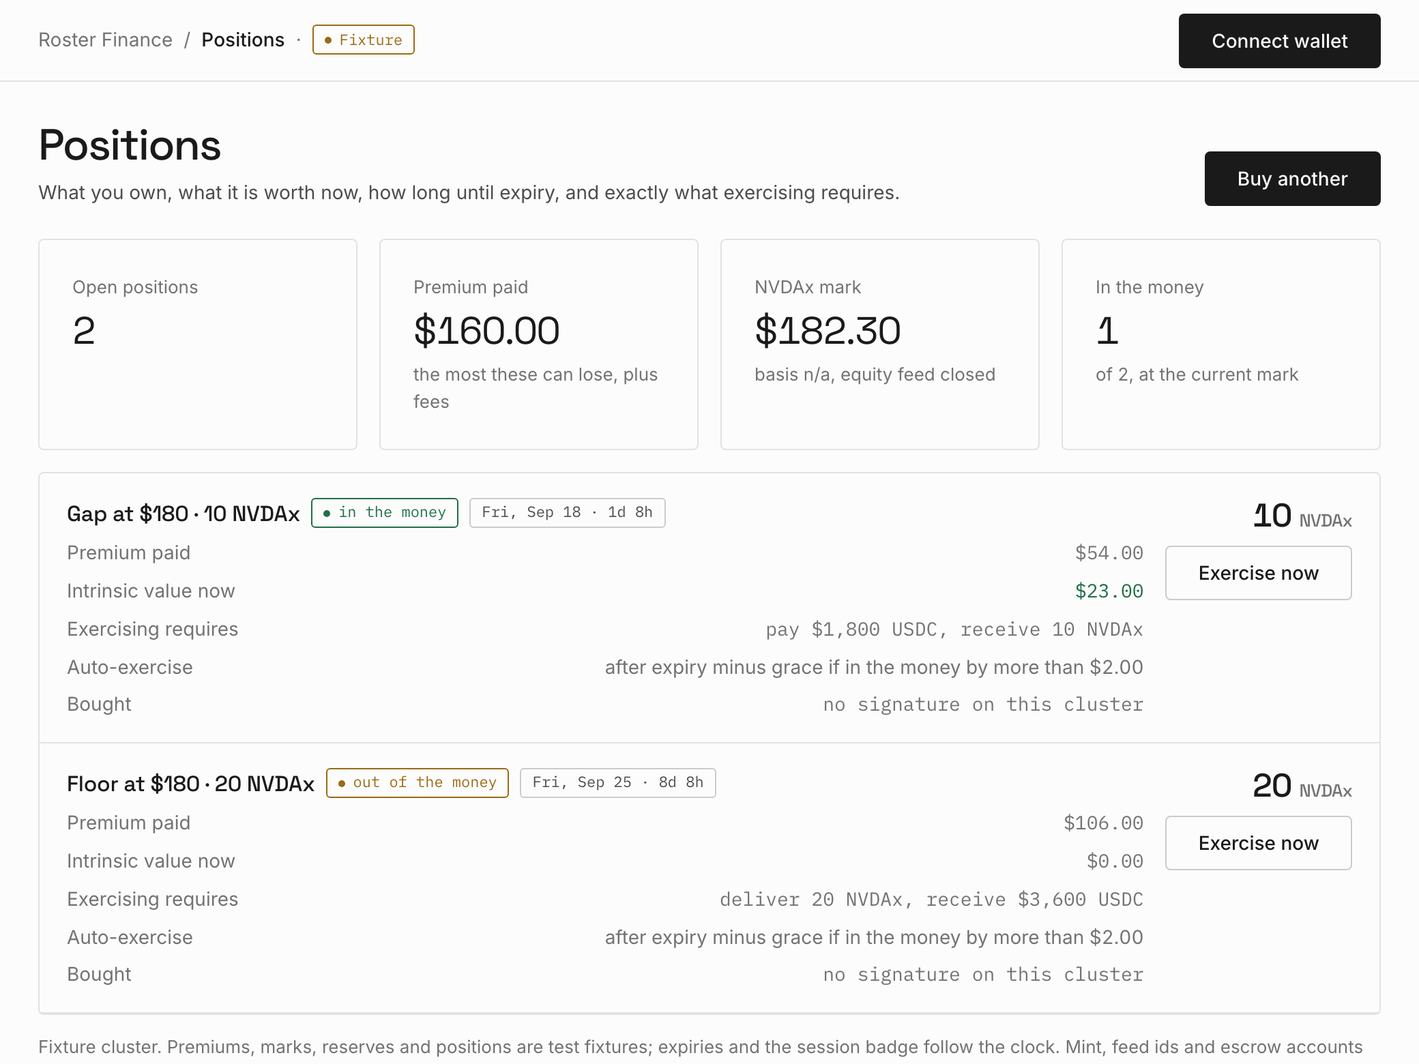
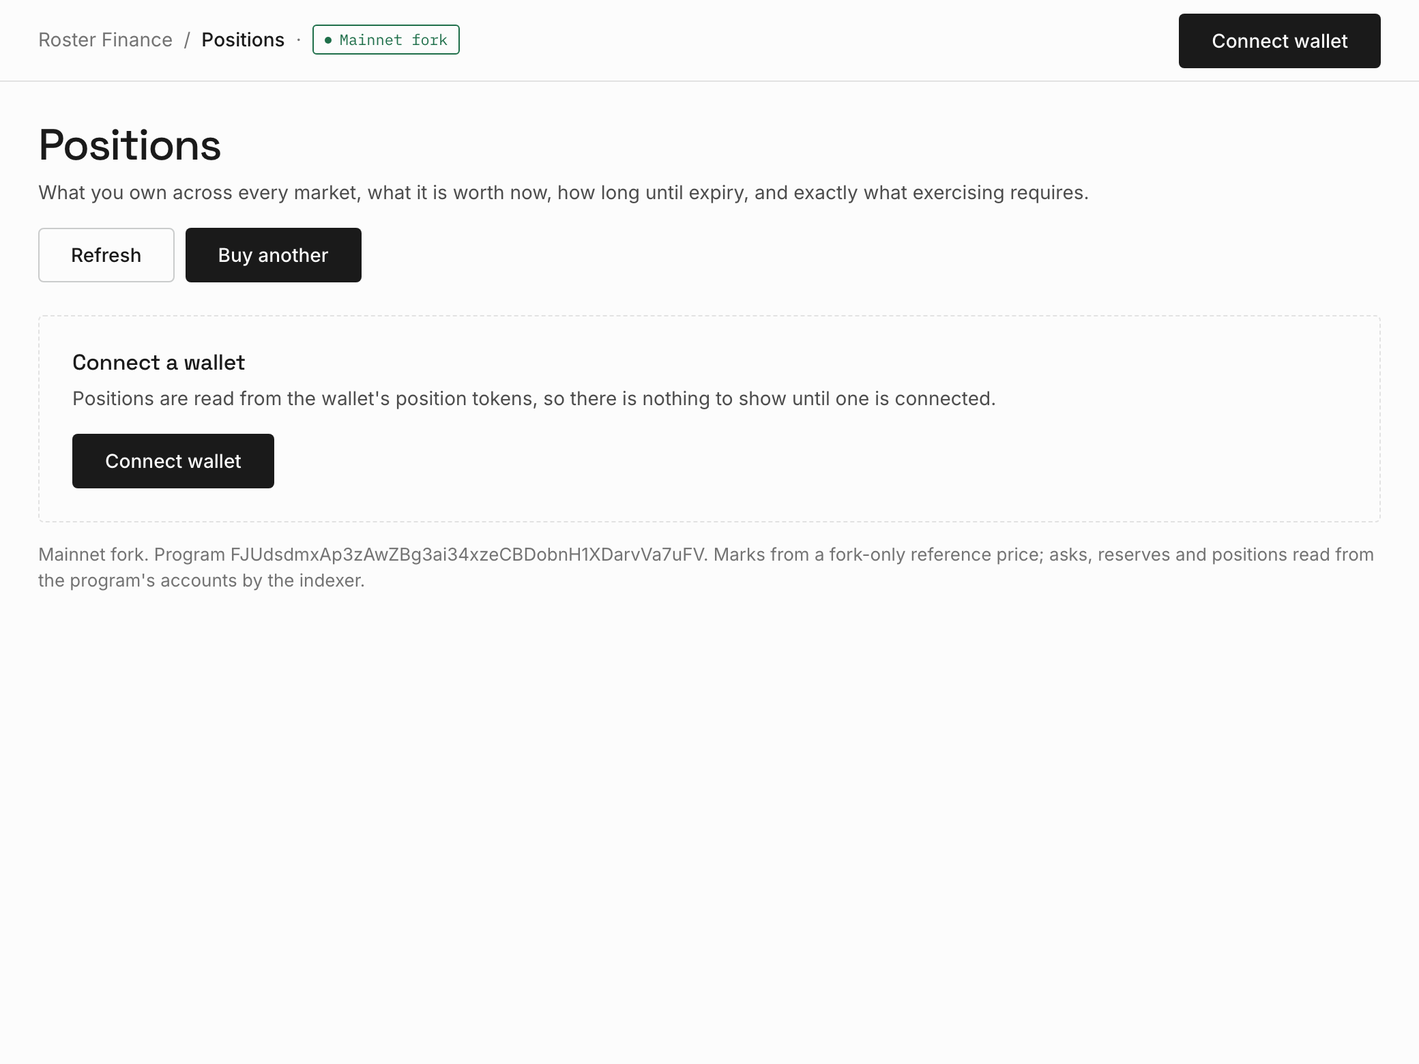
M4: app on live data, browser-driven flow, roster names and receipts
Indexer carries the ask's writer slot and decimal event data; services
pull events on a short loop and batch position lookups; the app names the
treasury and quoter, keeps expired series in the history, and the flow
spec passes on the fork alongside 20 screenshot runs.

diff --git a/packages/services/src/main.ts b/packages/services/src/main.ts
@@ -70,6 +70,21 @@ async function main() {
   let blocked: string | null = null;
   console.log(`[services] cluster=${cluster} genesis=${genesis.slice(0, 8)} program=${ROSTER_PROGRAM_ID.toBase58()} hermes=${hermes.keyed ? "keyed" : "NO KEY"} markets=${launch.map((l) => l.symbol).join(",")}`);
 
+  // Events are pulled on their own short loop as well as at the end of each tick: a tick that reprices every series
+  // can take a minute, and a receipt should not wait for it.
+  let pulling = false;
+  async function pullEvents(): Promise<void> {
+    if (pulling) return;
+    pulling = true;
+    try {
+      await indexer.pullEvents();
+    } catch (e) {
+      console.warn(`[indexer] events: ${(e as Error).message}`);
+    } finally {
+      pulling = false;
+    }
+  }
+
   async function tick(): Promise<void> {
     const nowTs = await clockUnix(connection);
     for (const l of launch) {
@@ -118,7 +133,7 @@ async function main() {
       }
       await indexer.snapshotMarket((await reader.fetchMarket(l.mint)) ?? market);
     }
-    await indexer.pullEvents().catch((e) => console.warn(`[indexer] events: ${(e as Error).message}`));
+    await pullEvents();
     lastTick = Date.now();
     if (blocked) console.warn(`[services] blocked on ${blocked}: the quoter cannot price (docs/OPERATOR.md)`);
   }
@@ -132,7 +147,7 @@ async function main() {
         const nowTs = await clockUnix(connection);
         const markets = [...live.values()].map((m) => ({ symbol: m.meta.symbol, name: m.meta.name, mint: m.market.mint.toBase58(), market: m.market.address.toBase58(), decimals: m.market.decimals, tier: m.market.tier, listed: m.market.listed, paused: m.market.paused || m.paused, hasTransferFee: m.market.hasTransferFee, hasPermanentDelegate: m.market.hasPermanentDelegate, pausable: m.market.pausable, hookProgram: m.market.hookProgram.toBase58(), allowedExpiries: m.market.allowedExpiries.map(String), strikeStep: m.market.strikeStep.toString(), minLots6: m.market.minLots6.toString(), maxLots6: m.market.maxLots6.toString(), maxLiveSeries: m.market.maxLiveSeries, liveSeries: m.market.liveSeries, price: m.price, priceAt: m.priceAt, priceSource: m.priceSource, equityPrice: m.equityPrice, basisBps: m.basisBps, multiplier: m.multiplier, pendingActivationTs: m.pendingActivationTs, inActivationWindow: m.inActivationWindow, vol: m.vol, volSource: m.volSource, series: store.series(m.market.address.toBase58()).map((s) => ({ ...s, asks: JSON.parse(s.asks_json), writers: JSON.parse(s.writers_json), asks_json: undefined, writers_json: undefined })) }));
         const protocol = await reader.fetchProtocol().catch(() => null);
-        return json(200, { cluster, programDeployed: true, program: ROSTER_PROGRAM_ID.toBase58(), nowTs, session: sessionAt(nowTs), feeBps: protocol?.feeBps ?? null, keeperFeeUsdc: protocol?.keeperFeeUsdc.toString() ?? null, graceSecs: protocol?.graceSecs.toString() ?? null, blocked, markets, quoterLog: quoter.log.slice(-40), keeperLog: keeper.log.slice(-40) });
+        return json(200, { cluster, programDeployed: true, program: ROSTER_PROGRAM_ID.toBase58(), nowTs, session: sessionAt(nowTs), feeBps: protocol?.feeBps ?? null, keeperFeeUsdc: protocol?.keeperFeeUsdc.toString() ?? null, graceSecs: protocol?.graceSecs.toString() ?? null, treasury: protocol?.treasury.toBase58() ?? null, quoter: quoterKey.publicKey.toBase58(), blocked, markets, quoterLog: quoter.log.slice(-40), keeperLog: keeper.log.slice(-40) });
       }
       const prot = url.pathname.match(/^\/v1\/protection\/([1-9A-HJ-NP-Za-km-z]+)$/);
       if (prot) {
@@ -144,15 +159,15 @@ async function main() {
       const pos = url.pathname.match(/^\/v1\/positions\/([1-9A-HJ-NP-Za-km-z]+)$/);
       if (pos) {
         const wallet = new PublicKey(pos[1]!);
-        const out = [];
-        for (const row of store.series()) {
-          const ata = (await import("@solana/spl-token")).getAssociatedTokenAddressSync(new PublicKey(row.position_mint), wallet, false, (await import("@solana/spl-token")).TOKEN_2022_PROGRAM_ID);
-          const info = await connection.getAccountInfo(ata);
-          if (!info) continue;
-          const amount = info.data.readBigUInt64LE(64);
-          if (amount === 0n) continue;
-          out.push({ series: row.address, market: row.market, side: row.side, strike_usdc_per_lot: row.strike_usdc_per_lot, expiry_ts: row.expiry_ts, position_mint: row.position_mint, lots6: amount.toString(), autoExercise: !!(await connection.getAccountInfo((await import("@roster/sdk")).autoExercisePda(ROSTER_PROGRAM_ID, wallet, new PublicKey(row.address)))) });
-        }
+        const { getAssociatedTokenAddressSync, TOKEN_2022_PROGRAM_ID } = await import("@solana/spl-token");
+        const { autoExercisePda } = await import("@roster/sdk");
+        const rows = store.series();
+        // One RPC round trip for every position ATA, then one for the opt-ins of the positions that exist.
+        const atas = rows.map((row) => getAssociatedTokenAddressSync(new PublicKey(row.position_mint), wallet, false, TOKEN_2022_PROGRAM_ID));
+        const infos = atas.length ? await connection.getMultipleAccountsInfo(atas) : [];
+        const held = rows.map((row, i) => ({ row, amount: infos[i] ? infos[i]!.data.readBigUInt64LE(64) : 0n })).filter((x) => x.amount > 0n);
+        const optIns = held.length ? await connection.getMultipleAccountsInfo(held.map((x) => autoExercisePda(ROSTER_PROGRAM_ID, wallet, new PublicKey(x.row.address)))) : [];
+        const out = held.map((x, i) => ({ series: x.row.address, market: x.row.market, side: x.row.side, strike_usdc_per_lot: x.row.strike_usdc_per_lot, expiry_ts: x.row.expiry_ts, position_mint: x.row.position_mint, lots6: x.amount.toString(), autoExercise: !!optIns[i] }));
         return json(200, { wallet: wallet.toBase58(), positions: out, events: store.events({ wallet: wallet.toBase58(), limit: 100 }) });
       }
       if (url.pathname === "/v1/events") return json(200, store.events({ name: url.searchParams.get("name") ?? undefined, series: url.searchParams.get("series") ?? undefined, limit: Number(url.searchParams.get("limit") ?? 100) }));
@@ -170,6 +185,7 @@ async function main() {
     server.close();
     return;
   }
+  setInterval(() => void pullEvents(), Number(process.env.EVENTS_PULL_MS ?? 3_000));
   // One tick at a time: a slow tick (many sends) must not overlap the next, or the keeper and quoter race themselves.
   let inFlight = false;
   setInterval(() => {

diff --git a/packages/indexer/src/indexer.ts b/packages/indexer/src/indexer.ts
@@ -93,7 +93,7 @@ export class Indexer {
         address: s.address.toBase58(), market: s.market.toBase58(), side: s.side, strike_usdc_per_lot: s.strikeUsdcPerLot.toString(), expiry_ts: Number(s.expiryTs), position_mint: s.positionMint.toBase58(),
         collateral_vault: s.collateralVault.toBase58(), settlement_vault: s.settlementVault.toBase58(), quote_vault: s.quoteVault.toBase58(), total_sold_lots6: s.totalSoldLots6.toString(), total_exercised_lots6: s.totalExercisedLots6.toString(),
         unassigned_lots6: s.unassignedLots6.toString(), halted: s.halted ? 1 : 0,
-        asks_json: JSON.stringify(s.asks.map((a) => ({ remaining_lots6: a.remainingLots6.toString(), ask_per_lot: a.askPerLot.toString(), seq: a.seq.toString(), writer: s.writers[a.writerSlot]?.writer.toBase58() ?? null }))),
+        asks_json: JSON.stringify(s.asks.map((a) => ({ remaining_lots6: a.remainingLots6.toString(), ask_per_lot: a.askPerLot.toString(), seq: a.seq.toString(), writer_slot: a.writerSlot, writer: s.writers[a.writerSlot]?.writer.toBase58() ?? null }))),
         writers_json: JSON.stringify(s.writers.map((w) => ({ writer: w.writer.toBase58(), deposited_lots6: w.depositedLots6.toString(), withdrawn_lots6: w.withdrawnLots6.toString(), sold_lots6: w.soldLots6.toString(), open_lots6: w.openLots6.toString(), assigned_lots6: w.assignedLots6.toString(), premium_claimable: w.premiumClaimable.toString(), settled: w.settled }))),
         collateral_balance: cb.toString(), settlement_balance: sb.toString(), updated_at: Math.floor(Date.now() / 1000)
       };
@@ -133,17 +133,20 @@ export class Indexer {
     for (const s of sigs.reverse()) {
       const tx = await this.connection.getTransaction(s.signature, { commitment: "confirmed", maxSupportedTransactionVersion: 0 });
       const logs = tx?.meta?.logMessages ?? [];
+      // surfpool reports block times that are not unix seconds; fall back to the transaction's, then to now.
+      const plausible = (t: number | null | undefined) => (t && t > 1_000_000_000 ? t : null);
+      const blockTime = plausible(s.blockTime) ?? plausible(tx?.blockTime) ?? Math.floor(Date.now() / 1000);
       let i = 0;
       for (const ev of this.parser.parseLogs(logs, false)) {
         const data = plain(ev.data);
         // The parser hands back camelCase names; store the IDL's PascalCase so the API matches the program's event names.
         const name = ev.name.charAt(0).toUpperCase() + ev.name.slice(1);
-        if (this.store.insertEvent({ signature: s.signature, ix_index: i, slot: s.slot, block_time: s.blockTime ?? tx?.blockTime ?? 0, name, data_json: JSON.stringify(data) })) added += 1;
+        if (this.store.insertEvent({ signature: s.signature, ix_index: i, slot: s.slot, block_time: blockTime, name, data_json: JSON.stringify(data) })) added += 1;
         i += 1;
       }
       if (tx?.meta?.err) {
         // Failed transactions are part of the roster's honesty: record them so a declined exercise shows up.
-        if (this.store.insertEvent({ signature: s.signature, ix_index: 999, slot: s.slot, block_time: s.blockTime ?? 0, name: "Failed", data_json: JSON.stringify({ err: tx.meta.err, logs: logs.slice(-3) }) })) added += 1;
+        if (this.store.insertEvent({ signature: s.signature, ix_index: 999, slot: s.slot, block_time: blockTime, name: "Failed", data_json: JSON.stringify({ err: tx.meta.err, logs: logs.slice(-3) }) })) added += 1;
       }
       this.store.markSignature(s.signature, s.slot);
     }

diff --git a/apps/web/src/lib/roster-data.ts b/apps/web/src/lib/roster-data.ts
@@ -92,11 +92,12 @@ function underlyingOf(m: Market): Underlying {
   return { symbol: m.symbol, name: m.name, mint: m.mint, mark: m.mark ?? 0, equityMark: m.equityMark, basisBps: m.basisBps, multiplier: m.multiplier, pendingActivationTs: m.pendingActivationTs, wrapperTier: m.wrapperTier };
 }
 
-function underwritersOf(terms: Term[], treasury: string | null): Underwriter[] {
+function underwritersOf(terms: Term[], treasury: string | null, quoter: string | null): Underwriter[] {
   const by = new Map<string, Underwriter>();
   for (const t of terms) {
     for (const w of t.writers) {
-      const u = by.get(w.account) ?? { name: w.account === treasury ? "Roster treasury" : `Underwriter ${w.account.slice(0, 4)}…${w.account.slice(-4)}`, kind: w.account === treasury ? "treasury" : "external", account: w.account, usdcReserved: 0, underlyingReserved: 0, live: false };
+      const kind: Underwriter["kind"] = w.account === treasury ? "treasury" : w.account === quoter ? "maker" : "external";
+      const u = by.get(w.account) ?? { name: kind === "treasury" ? "Roster treasury" : kind === "maker" ? "Roster quoter" : `${w.account.slice(0, 4)}…${w.account.slice(-4)}`, kind, account: w.account, usdcReserved: 0, underlyingReserved: 0, live: false };
       if (t.side === "put") u.usdcReserved += w.askLots * t.strike * 1; else u.underlyingReserved += w.askLots;
       u.live = u.live || w.live;
       by.set(w.account, u);
@@ -137,10 +138,11 @@ async function fromServices(r: ServicesRoster, selected: string | undefined, fre
   const terms = termsByMarket.flatMap((x) => x.terms).filter((t) => t.expiryTs > nowTs);
   const pick = markets.find((m) => m.symbol.toLowerCase() === selected?.toLowerCase()) ?? markets[0];
   const mine = pick ? terms.filter((t) => t.market === pick.symbol) : [];
+  // History covers the market's expired series too: an exercise on a term that has since expired still happened.
+  const allOfMarket = pick ? termsByMarket.find((x) => x.m.symbol === pick.symbol)?.terms ?? [] : [];
   const cluster = r.cluster === "fork" ? "fork" : r.cluster === "devnet" ? "devnet" : "mainnet";
   const label = cluster === "fork" ? "Mainnet fork" : cluster === "devnet" ? "Devnet" : "Mainnet";
-  const treasury = process.env.NEXT_PUBLIC_TREASURY ?? null;
-  const exercises = pick ? await liveExercises(mine).catch(() => []) : [];
+  const exercises = pick ? await liveExercises(allOfMarket).catch(() => []) : [];
   return {
     cluster,
     clusterLabel: label,
@@ -152,7 +154,7 @@ async function fromServices(r: ServicesRoster, selected: string | undefined, fre
     underlying: pick ? underlyingOf(pick) : { symbol: "NVDAx", name: "Nvidia xStock", mint: null, mark: 0, equityMark: null, basisBps: null, multiplier: 1, pendingActivationTs: null, wrapperTier: "xStock" },
     expiries: pick ? pick.expiries : [],
     terms: mine,
-    underwriters: underwritersOf(mine, treasury),
+    underwriters: underwritersOf(mine, r.treasury, r.quoter),
     positions: [],
     exercises,
     feeBps: r.feeBps ?? 0,

diff --git a/apps/web/src/lib/services.ts b/apps/web/src/lib/services.ts
@@ -9,7 +9,7 @@ import "server-only";
 export const SERVICES_URL = process.env.SERVICES_URL ?? "http://127.0.0.1:8787";
 const TIMEOUT_MS = Number(process.env.SERVICES_TIMEOUT_MS ?? 4_000);
 
-export interface ServicesAsk { remaining_lots6: string; ask_per_lot: string; seq: string; writer_slot: number }
+export interface ServicesAsk { remaining_lots6: string; ask_per_lot: string; seq: string; writer_slot: number; writer: string | null }
 export interface ServicesWriter { writer: string; deposited_lots6: string; withdrawn_lots6: string; sold_lots6: string; open_lots6: string; assigned_lots6: string; premium_claimable: string; settled: boolean }
 export interface ServicesSeries {
   address: string; market: string; side: "call" | "put"; strike_usdc_per_lot: string; expiry_ts: number; position_mint: string;
@@ -25,15 +25,15 @@ export interface ServicesMarket {
 }
 export interface ServicesRoster {
   cluster: string; programDeployed: boolean; program: string; nowTs: number; session: string; feeBps: number | null; keeperFeeUsdc: string | null;
-  graceSecs: string | null; blocked: string | null; markets: ServicesMarket[];
+  graceSecs: string | null; treasury: string | null; quoter: string | null; blocked: string | null; markets: ServicesMarket[];
 }
 export interface ServicesEvent { signature: string; ix_index: number; slot: number; block_time: number; name: string; data_json: string }
 export interface ServicesPosition { series: string; market: string; side: "call" | "put"; strike_usdc_per_lot: string; expiry_ts: number; position_mint: string; lots6: string; autoExercise: boolean }
 export interface ServicesPositions { wallet: string; positions: ServicesPosition[]; events: ServicesEvent[] }
 export interface ServicesHealth { ok: boolean; cluster: string; lastTick: number; blocked: string | null; program: string; hermesKeyed: boolean }
 
-async function get<T>(path: string): Promise<T> {
-  const res = await fetch(`${SERVICES_URL}${path}`, { cache: "no-store", signal: AbortSignal.timeout(TIMEOUT_MS) });
+async function get<T>(path: string, timeoutMs = TIMEOUT_MS): Promise<T> {
+  const res = await fetch(`${SERVICES_URL}${path}`, { cache: "no-store", signal: AbortSignal.timeout(timeoutMs) });
   if (!res.ok) throw new Error(`services ${path}: HTTP ${res.status}`);
   return (await res.json()) as T;
 }
@@ -41,7 +41,7 @@ async function get<T>(path: string): Promise<T> {
 export const services = {
   health: () => get<ServicesHealth>("/v1/health"),
   roster: () => get<ServicesRoster>("/v1/roster"),
-  positions: (wallet: string) => get<ServicesPositions>(`/v1/positions/${wallet}`),
+  positions: (wallet: string) => get<ServicesPositions>(`/v1/positions/${wallet}`, 15_000),
   events: (q: { name?: string; series?: string; limit?: number }) => {
     const p = new URLSearchParams();
     if (q.name) p.set("name", q.name);

diff --git a/apps/web/e2e/flow.spec.ts b/apps/web/e2e/flow.spec.ts
@@ -89,9 +89,10 @@ test("buy a Gap, buy a Floor, write a Floor, exercise, see the release", async (
   await gap.getByTestId("exercise-size").fill("1");
   await gap.getByTestId("exercise-confirm").click();
   await waitDone(page);
+  // The burner wallet lives in the page, so never reload: refresh in place until the indexer has the event.
   await expect.poll(async () => {
-    await page.reload();
-    await page.getByTestId("wallet").waitFor({ timeout: 20_000 }).catch(() => undefined);
+    await page.getByTestId("refresh").click();
+    await page.waitForTimeout(1500);
     return (await page.getByTestId("history").textContent().catch(() => "")) ?? "";
   }, { timeout: 120_000, intervals: [5_000] }).toContain("Exercised");
 
@@ -99,10 +100,10 @@ test("buy a Gap, buy a Floor, write a Floor, exercise, see the release", async (
   const expiry = Number(written.split("-").pop());
   await timeTravelTo(Math.max(await clockUnix(connection), expiry) + 5);
   await expect.poll(async () => {
-    await page.reload();
-    await page.getByTestId("wallet").waitFor({ timeout: 20_000 }).catch(() => undefined);
+    await page.getByTestId("refresh").click();
+    await page.waitForTimeout(1500);
     return (await page.getByTestId("history").textContent().catch(() => "")) ?? "";
-  }, { timeout: 180_000, intervals: [5_000] }).toContain("Released");
+  }, { timeout: 240_000, intervals: [5_000] }).toContain("Released");
   const released = page.getByTestId("history").locator("tr[data-kind=release]").first();
   await expect(released).toContainText("not assigned");
   expect(errors, errors.join("\n")).toEqual([]);

diff --git a/apps/web/e2e/frames.spec.ts b/apps/web/e2e/frames.spec.ts
@@ -3,7 +3,7 @@ import { test } from "@playwright/test";
 /** The product frames the landing page swaps through: the main content area at 2x, 1040 x 780, like the reference's 2080 x 1560 frames. */
 const frames = [
   { path: "/trade", name: "trade", wait: "table.table" },
-  { path: "/trade/call-180-EXP", name: "act", wait: ".chart svg" },
+  { path: "/trade/TERM", name: "act", wait: ".chart svg" },
   { path: "/positions", name: "positions", wait: ".card" },
   { path: "/underwrite", name: "underwrite", wait: "table.table" }
 ] as const;
@@ -11,9 +11,10 @@ const frames = [
 for (const f of frames) {
   test(`frame ${f.name}`, async ({ page, request }) => {
     let path: string = f.path;
-    if (path.includes("EXP")) {
-      const d = (await (await request.get("/api/roster")).json()) as { expiries: number[] };
-      path = path.replace("EXP", String(d.expiries[0]));
+    if (path.includes("TERM")) {
+      const d = (await (await request.get("/api/roster")).json()) as { terms: { id: string; side: string; ladder: { ask: number | null }[] }[] };
+      const t = d.terms.find((x) => x.side === "call" && x.ladder[0]?.ask !== null) ?? d.terms[0]!;
+      path = path.replace("TERM", t.id);
     }
     await page.goto(path);
     await page.locator(f.wait).first().waitFor({ timeout: 55_000 });

diff --git a/apps/web/src/app/(app)/trade/[term]/page.tsx b/apps/web/src/app/(app)/trade/[term]/page.tsx
@@ -101,9 +101,10 @@ export default function ActPage({ params }: { params: Promise<{ term: string }> 
                 { k: `Fee, ${data.feeBps} bps`, v: <span className="mono">{c.fillable ? `$${usd(c.fee)}` : "n/a"}</span> },
                 { k: "Total", v: <span className="mono ink" style={{ fontWeight: 500 }} data-testid="total">{c.fillable ? `$${usdSmart(c.total)}` : "n/a"}</span> },
                 { k: "Split across", v: c.fillable ? `${c.writers} underwriter${c.writers > 1 ? "s" : ""}` : `${Math.floor(t.capacity)} ${u.symbol} available` },
-                { k: "Referrer", v: "none; the integrator share of the fee stays with the protocol" }
+                { k: "Referrer", v: "none" }
               ]} />
             </div>
+            <p className="note" style={{ marginTop: 8 }}>No referrer on this buy: the integrator share of the fee stays with the protocol.</p>
             <div className="divider" style={{ margin: "16px 0" }} />
             <div className="small">Escrow backing this fill</div>
             <div style={{ marginTop: 8, display: "grid", gap: 6 }}>

diff --git a/apps/web/src/app/(app)/positions/page.tsx b/apps/web/src/app/(app)/positions/page.tsx
@@ -34,7 +34,10 @@ export default function PositionsPage() {
           <h1 className="h3">Positions</h1>
           <p className="body-sm">What you own across every market, what it is worth now, how long until expiry, and exactly what exercising requires.</p>
         </div>
-        <Link href="/trade" className="btn primary sm">Buy another</Link>
+        <div className="flex items-center gap-2">
+          <button className="btn secondary sm" onClick={reload} data-testid="refresh">Refresh</button>
+          <Link href="/trade" className="btn primary sm">Buy another</Link>
+        </div>
       </div>
       {error || perror ? <ErrorState message={`Could not read positions: ${error ?? perror}`} next="Reload the page." /> : null}
       {!data && !error ? <Loading what="positions" /> : null}

diff --git a/docs/BUILD_LOG.md b/docs/BUILD_LOG.md
@@ -100,3 +100,15 @@ One entry per phase (CLAUDE.md 0): what was built, what was verified against whi
 **Cut.** Auto-exercise at expiry on the fork needs a posted Pyth update and therefore `PYTH_CORE_API_KEY`; the test names the skip. Tier 2 markets and the registry beyond NVDAx are M5.
 
 **Open risks.** The quoter's realised vol falls back to the floor (`VOL_FLOOR`, 0.35) without a Pyth key, so every fork ask is priced off the floor. `REFERENCE_PRICE_<SYMBOL>` is a test device and must never be set on a real cluster (the services refuse it by genesis hash).
+
+## 2026-09-17 · M4 · P3: the app on live data, wallet flow, compliance
+
+**Built.** `apps/web` reads the services process (`SERVICES_URL`) and falls back to the fixture cluster, saying so. Multi-market model: market list by executable depth with search and tier filter, term ids keyed on the per-lot strike, per-share strikes shown at the live multiplier. Transactions: `/api/tx/build` assembles with a read-only wallet, the browser wallet signs, `/api/tx/send` submits through the app's RPC and confirms (CLAUDE.md 4.4); a failure taxonomy maps program errors to what happened and the next action. Act with the exact on-chain cost (asks walked as `buy` does, fee rounded up), escrow accounts, split count, referrer disclosure; Manage with positions across markets, partial exercise, the auto-exercise delegate with revoke, and every receipt from the program's own events; Commit with deposit-and-quote in one transaction, the writer's slot (cancel, claim, withdraw, settle); Roster protocol-wide and per market. `proxy.ts` geo gate with a plain page and HTTP 451; `/risk /fees /terms /privacy`. Landing per addendum H: hero market list, "Every stock, honestly tiered", the coverage row, the fragmentation answer; the copy FIX list applied. Fork-only burner wallet so the flow can be driven without an extension.
+
+**Verified.** `apps/web/e2e/flow.spec.ts` on the fork against the running services: connect the burner wallet, fund it through the cheatcodes, buy a Gap (2 NVDAx), buy a Floor, write a Floor (3 NVDAx at 1.00, the slot shows the resident ask), exercise 1 NVDAx with the exchange restated, time-travel past the written term's expiry and see the release receipt from the `WriterSettled` event: 1 passed (30 s). Screenshots at 1280 and 390 for every screen, no console errors: 20 passed. Geo gate: `x-vercel-ip-country: US` on `/trade` and `/api/tx/build` gives 451 with the message; `/risk` stays 200.
+
+**Lessons banked.** `@anchor-lang/core`'s ESM build references `exports`; it must be a `serverExternalPackages` entry, not bundled. The burner wallet lives in the page, so a flow test refreshes in place and never reloads. Playwright compiles specs as CommonJS under `apps/web`, so shared helpers resolve the repo root by walking up to `pnpm-workspace.yaml` rather than `import.meta`. Events are pulled on their own 3-second loop because a repricing tick can take a minute and a receipt should not wait for it. `getSignaturesForAddress` block times on surfpool are not unix seconds.
+
+**Cut.** Watchlists, CSV and PDF export, the pooled vault option, Blinks and the widget (Part 2 section 6, after the cut line). Treasury P&L on the roster waits for the accounting rows in M5.
+
+**Open risks.** With no country header from an edge, nothing is geo-blocked (docs/OPERATOR.md). The reference price on the fork prices every ask off the volatility floor.
